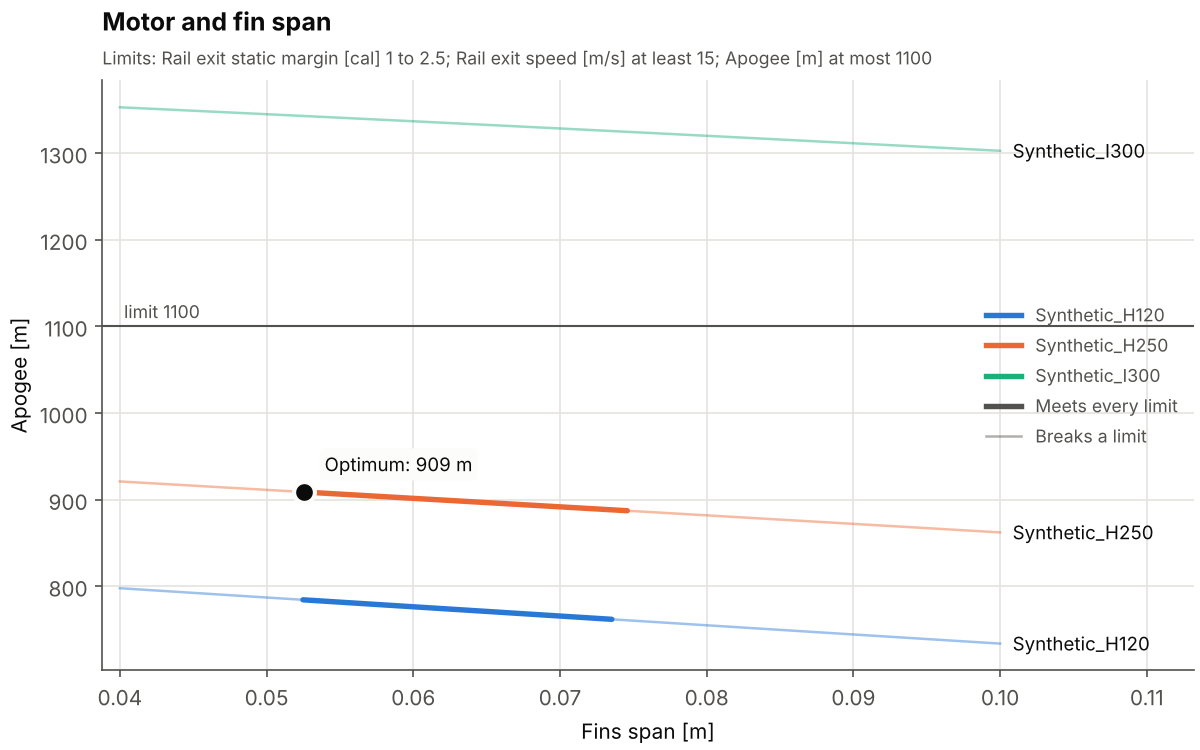
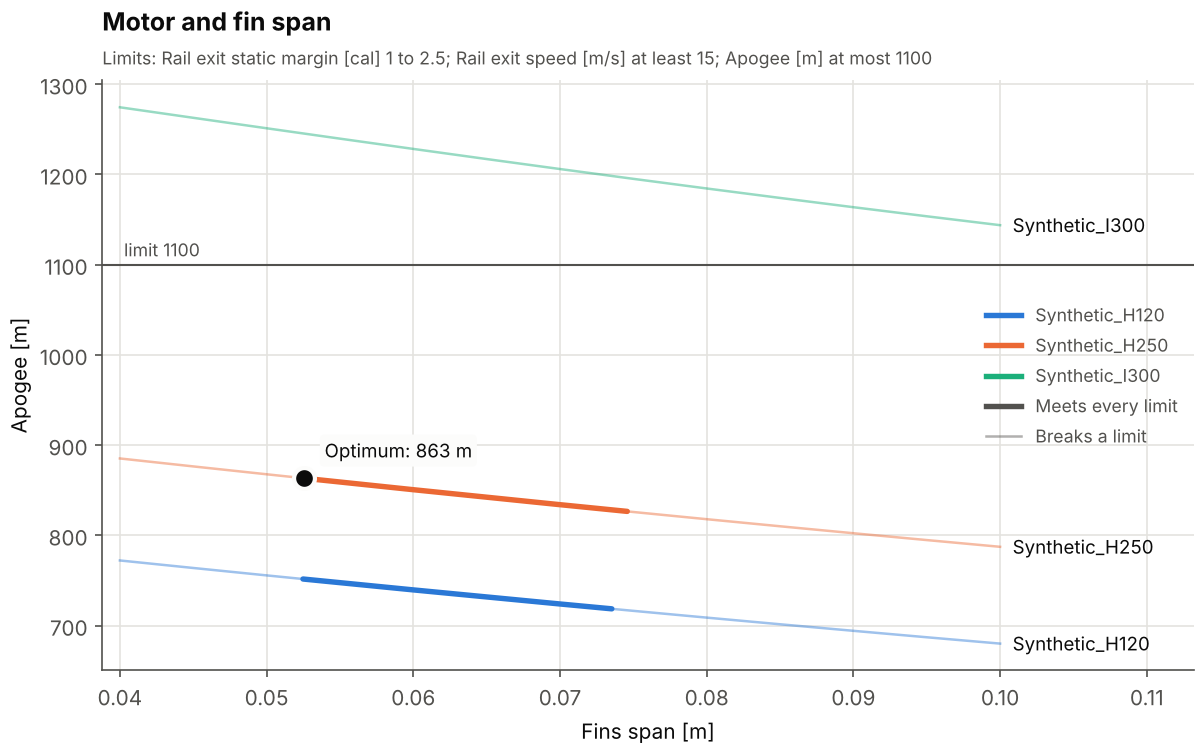
Document the drag estimate and regenerate the example results
Claude-Session: https://claude.ai/code/session_01WicUGWS3UTmG3FX4m26Y4u

diff --git a/README.md b/README.md
@@ -39,17 +39,18 @@ pytest
 
 ```
 Motor: Synthetic_H250 (H, 260.8 N s, 1.32 s burn)
+Drag: estimated from geometry, Cd 0.515 at Mach 0.3 (friction 0.368, base 0.132, fin edges 0.015, nose 0.000)
 Flight summary: Example L1 rocket, dual deploy
-  Apogee                                   896.63 m
-  Max speed                                170.49 m/s
+  Apogee                                   842.17 m
+  Max speed                                168.87 m/s
   Max ascent acceleration                   17.83 g
   Rail exit speed                           24.24 m/s
   Rail exit static margin                    1.99 cal
-  Drogue descent rate                       13.88 m/s
+  Drogue descent rate                       13.87 m/s
   Main deploy altitude                     150.00 m
-  Main opening load (upper bound)            8.88 g
+  Main opening load (upper bound)            8.86 g
   Landing descent rate                       4.38 m/s
-  Landing downrange                         88.65 m
+  Landing downrange                         92.95 m
   ...
 Stability: stable, 1.99 cal at rail exit
 ```
@@ -61,7 +62,8 @@ parachute opens on a trigger plus an optional delay: `apogee`, descending throug
 
 The `[nose]`, `[body]`, `[fins]` and `[[mass]]` sections describe the airframe. Dry mass and
 center of gravity are summed from the parts, or you can give measured values with `dry_mass_kg`
-and `dry_cg_m`. Drag is a constant `cd` or a `cd_file` CSV of Mach number against drag
+and `dry_cg_m`. Drag is one of three things: a `[drag]` table, which estimates the drag
+coefficient from the geometry; a constant `cd`; or a `cd_file` CSV of Mach number against drag
 coefficient, for example one exported from OpenRocket. Motors are RASP `.eng`
 files, the format published by [thrustcurve.org](https://www.thrustcurve.org). The bundled
 `Synthetic_*.eng` motors are made-up curves so the examples run out of the box; download real
@@ -119,22 +121,22 @@ apogee optimize studies/recovery.toml --plot recovery.png
 
 ```
 Optimum: Recovery sizing (minimize descent_drift_m)
-  parachute.drogue.diameter_m               0.2282
-  parachute.main.diameter_m                 0.7998
-  descent_drift_m                           232.66
+  parachute.drogue.diameter_m               0.2279
+  parachute.main.diameter_m                 0.7997
+  descent_drift_m                           223.34
   landing_descent_rate_mps                    5.00  (at most 5)
   main_opening_load_g                        12.00  (at most 12)
 Limited by
   landing_descent_rate_mps at its maximum of 5
   main_opening_load_g at its maximum of 12
-Flights simulated: 107
+Flights simulated: 105
 ```
 
 ![Descent drift over drogue and main parachute diameter](docs/images/study_recovery.png)
 
 *Smaller parachutes drift less, until the rocket lands too fast or the main opens too hard. The
 optimum sits where the two limits cross, and matches a hand calculation from the terminal
-velocity formula to 0.1% (it is one of the tests).*
+velocity formula to 0.3% (it is one of the tests).*
 
 A variable can also be a list of choices, such as motor files.
 [`studies/motor_and_fins.toml`](studies/motor_and_fins.toml) picks a motor and a fin span for the
@@ -144,23 +146,23 @@ highest flight under a 1100 m field ceiling:
 Optimum: Motor and fin span (maximize apogee_m)
   motor.file                            Synthetic_H250
   fins.span_m                              0.05253
-  apogee_m                                  908.83
+  apogee_m                                  863.26
   rail_exit_static_margin_cal                 1.00  (1 to 2.5)
   rail_exit_speed_mps                        24.46  (at least 15)
-  apogee_m                                  908.83  (at most 1100)
+  apogee_m                                  863.26  (at most 1100)
 Limited by
   rail_exit_static_margin_cal at its minimum of 1
 Best design for each choice
-  Synthetic_H250                            908.83
-  Synthetic_H120                            784.88
-  Synthetic_I300                           1307.49  (breaks a constraint)
-Flights simulated: 319
+  Synthetic_H250                            863.26
+  Synthetic_H120                            752.28
+  Synthetic_I300                           1179.43  (breaks a constraint)
+Flights simulated: 345
 ```
 
 ![Apogee against fin span for three motors](docs/images/study_motor_and_fins.png)
 
-*Smaller fins are lighter, so every motor flies higher with less fin, until the static margin
-drops below 1 caliber. The biggest motor is ruled out because it flies through the ceiling.*
+*Smaller fins are lighter and have less drag, so every motor flies higher with less fin, until
+the static margin drops below 1 caliber. The biggest motor is ruled out because it flies through the ceiling.*
 
 Variables are addressed by their path in the config (`fins.span_m`, `rail.angle_deg`,
 `motor.file`, `parachute.main.diameter_m`, `mass.ballast.mass_kg`). Objectives and constraints
@@ -203,7 +205,8 @@ $$
 | Thrust | RASP thrust curve, linear interpolation |
 | Mass | Propellant burns in proportion to delivered impulse: m_p(t) = m_p0 (1 - I(t) / I_total) |
 | Atmosphere | 1976 U.S. Standard Atmosphere, 0 to 32 km, launch-site elevation and temperature offset |
-| Drag | Constant C_D, a C_D-vs-Mach table from a CSV file, or any function C_D(Mach) |
+| Drag | Estimated from the geometry (below), or a constant C_D, a C_D-vs-Mach table from a CSV file, or any function C_D(Mach) |
+| Drag estimate | Turbulent skin friction on the wetted area with a roughness limit and compressibility correction, base drag, fin edge drag by profile, nose pressure drag for cones; depends on Mach and Reynolds number along the flight |
 | Center of pressure | Barrowman's equations for the nose cone (conical, ogive, parabolic, elliptical) and trapezoidal fins with fin-body interference |
 | Center of gravity | Mass-weighted average of nose, body tube, fins, point masses and the motor; moves forward as propellant burns |
 | Static margin | (x_CP - x_CG) / d in calibers, reported at liftoff, rail exit and burnout |
@@ -228,16 +231,17 @@ profiles and gusts, Earth rotation, multi-stage vehicles.
   (no transitions or boat tails yet).
 - The nose cone's own center of gravity defaults to 2/3 of its length from the tip. Weigh and
   balance real parts, or give the whole rocket's measured `dry_cg_m`.
-- The drag coefficient is an input and does not change with the geometry. A design study
-  therefore sees fin size through mass and stability only, not through fin drag, and
-  understates how much smaller fins help. A component drag build-up would fix this.
+- The drag estimate is subsonic. It has no wave drag, so above about Mach 0.8 it is too low
+  and the apogee too high; `apogee simulate` warns when a flight goes that fast. It leaves out
+  launch lugs and rail buttons, does not reduce base drag while the motor burns, and assumes a
+  fully turbulent boundary layer. It has not been compared with OpenRocket or flight data yet.
 - SLSQP is a local optimizer. Several starts guard against local optima, and a sweep of the same
   study is the independent check.
 - Parachutes inflate instantly, so the reported opening load is an upper bound on the real
   opening shock.
 - The rocket turns into the relative wind the moment it leaves the rail. A real rocket has
   rotational inertia and turns more slowly, so the model overpredicts how far upwind it flies in
-  a crosswind (220 m upwind at apogee in the example). OpenRocket comparisons will quantify this.
+  a crosswind (203 m upwind at apogee in the example). OpenRocket comparisons will quantify this.
 
 ## Verification
 
@@ -258,6 +262,9 @@ closed-form answer:
 | Descent in wind | Horizontal speed under canopy settles at wind speed | 1e-3 relative |
 | Barrowman center of pressure | Fin normal-force slope, fin and nose CP, total CP vs a hand calculation | 1e-5 relative |
 | Center of gravity | Component sum, motor at mid-length, forward shift during the burn | exact |
+| Skin friction | Smooth turbulent law vs the Prandtl-Schlichting flat-plate formula, Re 1e5 to 1e9 | 4% |
+| Drag estimate | Each component and the total vs a hand calculation; nose wetted area vs cone and hemisphere formulas | 1e-6 relative |
+| Drag in flight | Recorded drag vs q C_D A with C_D at the local Mach and Reynolds number | 1e-9 relative |
 | Optimizer, analytic problems | Constrained minimum of a quadratic, a variable at its bound, a target value, an infeasible problem | 1e-4 absolute or better |
 | Optimizer, best coasting mass | Mass that coasts highest for a fixed impulse with quadratic drag vs the closed-form optimum | 1e-6 relative in apogee |
 | Optimizer, recovery sizing | Drogue and main diameters vs hand sizing from terminal velocity and the opening-load ratio | 2e-3 and 5e-3 relative |
@@ -275,7 +282,7 @@ src/apogee/
   environment.py   gravity, wind, launch site
   recovery.py      parachutes, deployment triggers, terminal velocity
   components.py    nose cone, body tube, fins, point masses, dry mass and CG
-  aero.py          Barrowman center of pressure, Cd-vs-Mach tables
+  aero.py          Barrowman center of pressure, drag estimate, Cd-vs-Mach tables
   flight.py        equations of motion, phases, events, FlightResult
   study.py         design studies: sweeps, constraints, optimizer
   config.py        TOML loader
@@ -297,8 +304,9 @@ tests/             unit and analytic verification tests
 - [ ] 5. Validation against OpenRocket on 2 to 3 rockets
 - [x] 6. Parameter sweeps and constrained design optimizer
 - [x] 7. Flight animation
-- [ ] 8. Technical report and v1.0
-- [ ] 9. After v1.0: liquid and hybrid engines with throttling
+- [x] 8. Drag estimated from the geometry
+- [ ] 9. Technical report and v1.0
+- [ ] 10. After v1.0: liquid and hybrid engines with throttling
 
 ## License
 
